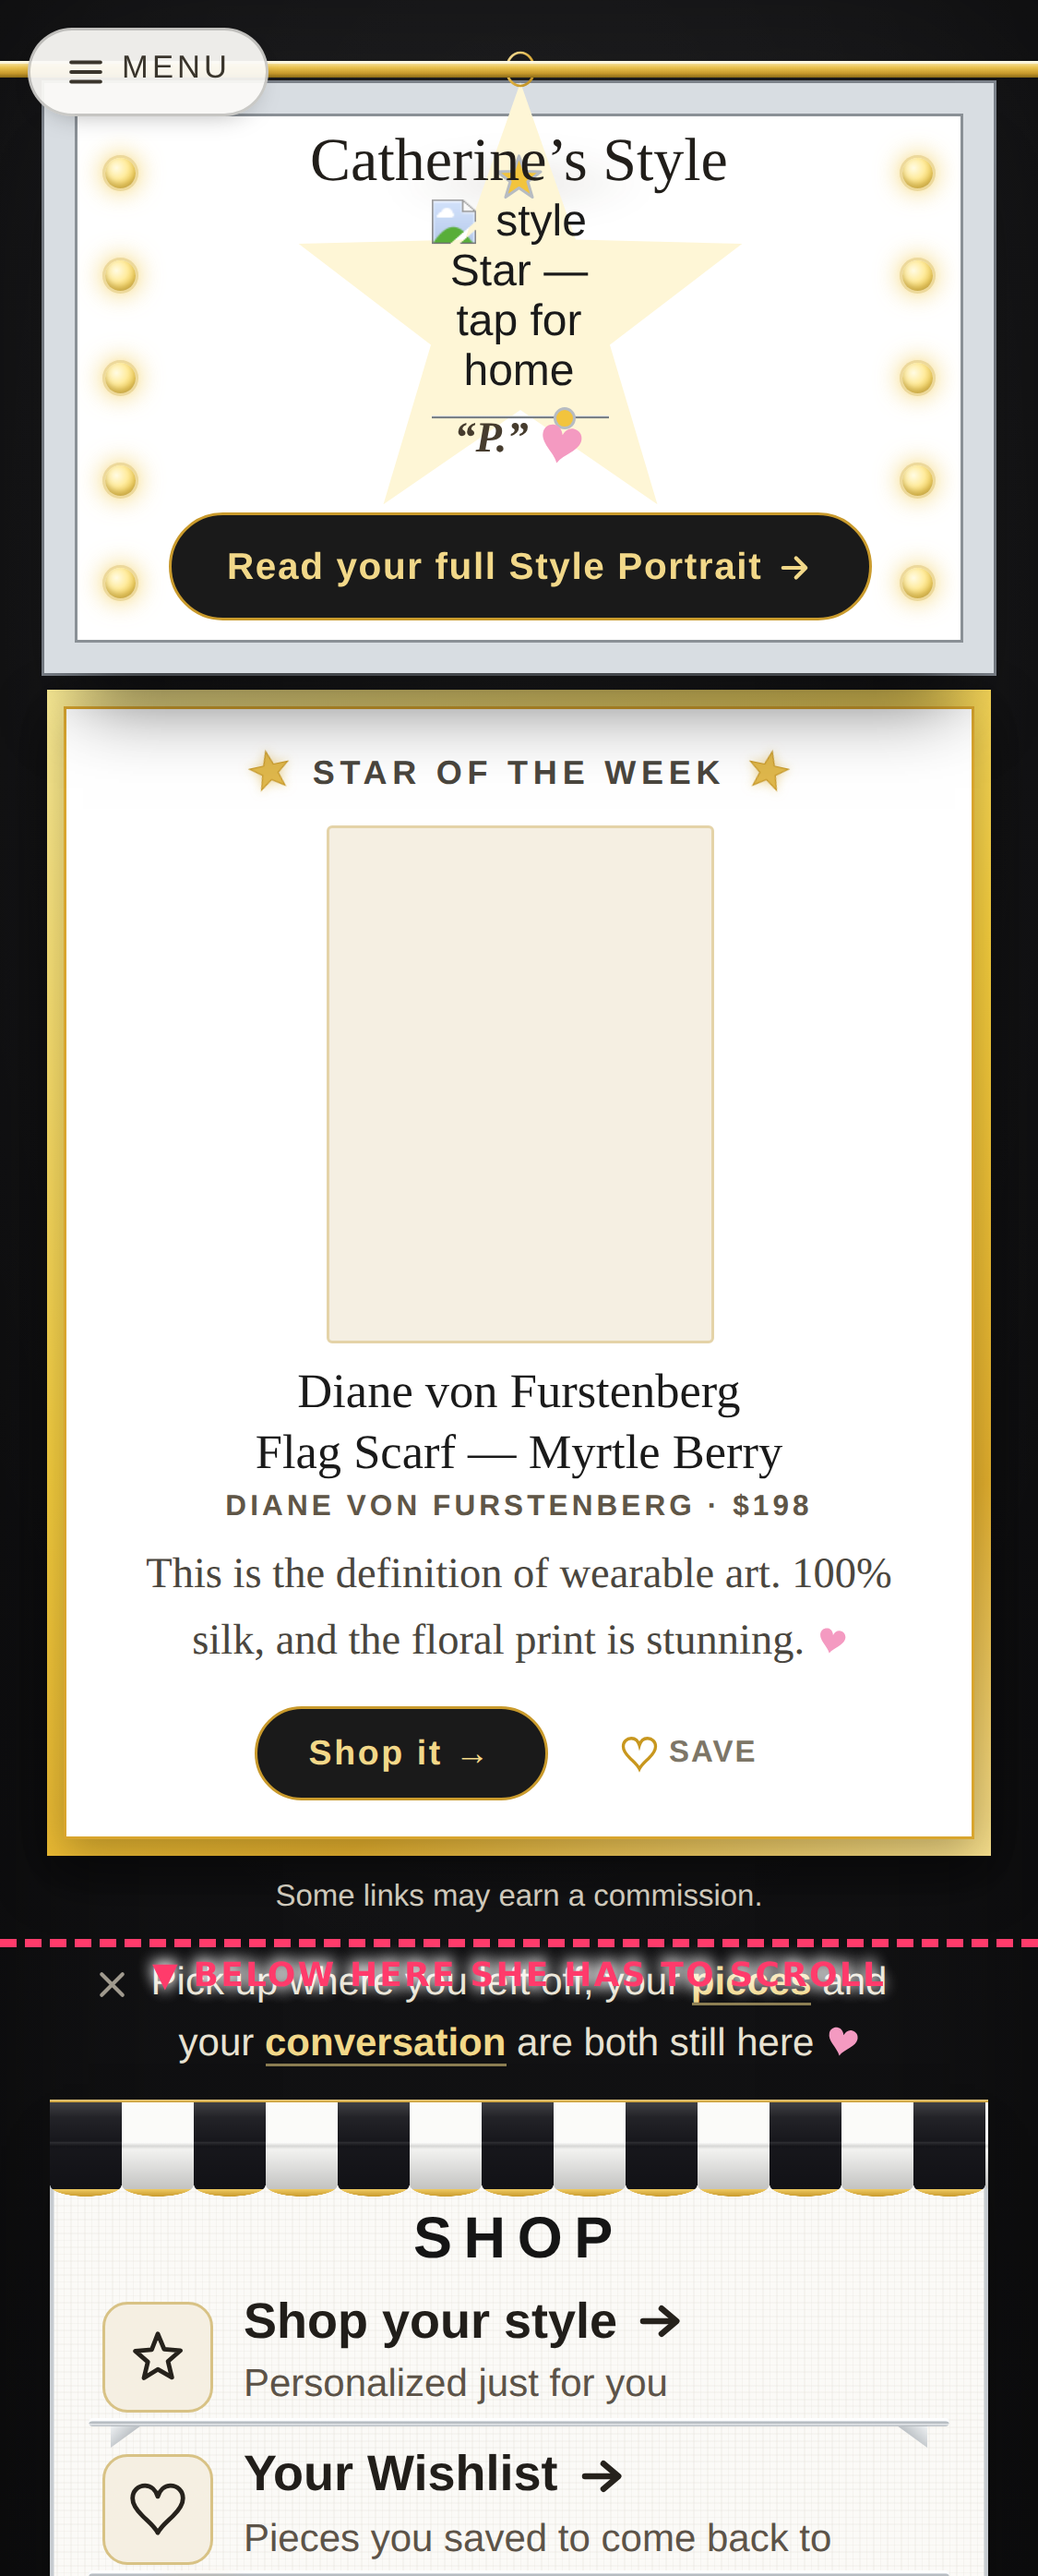
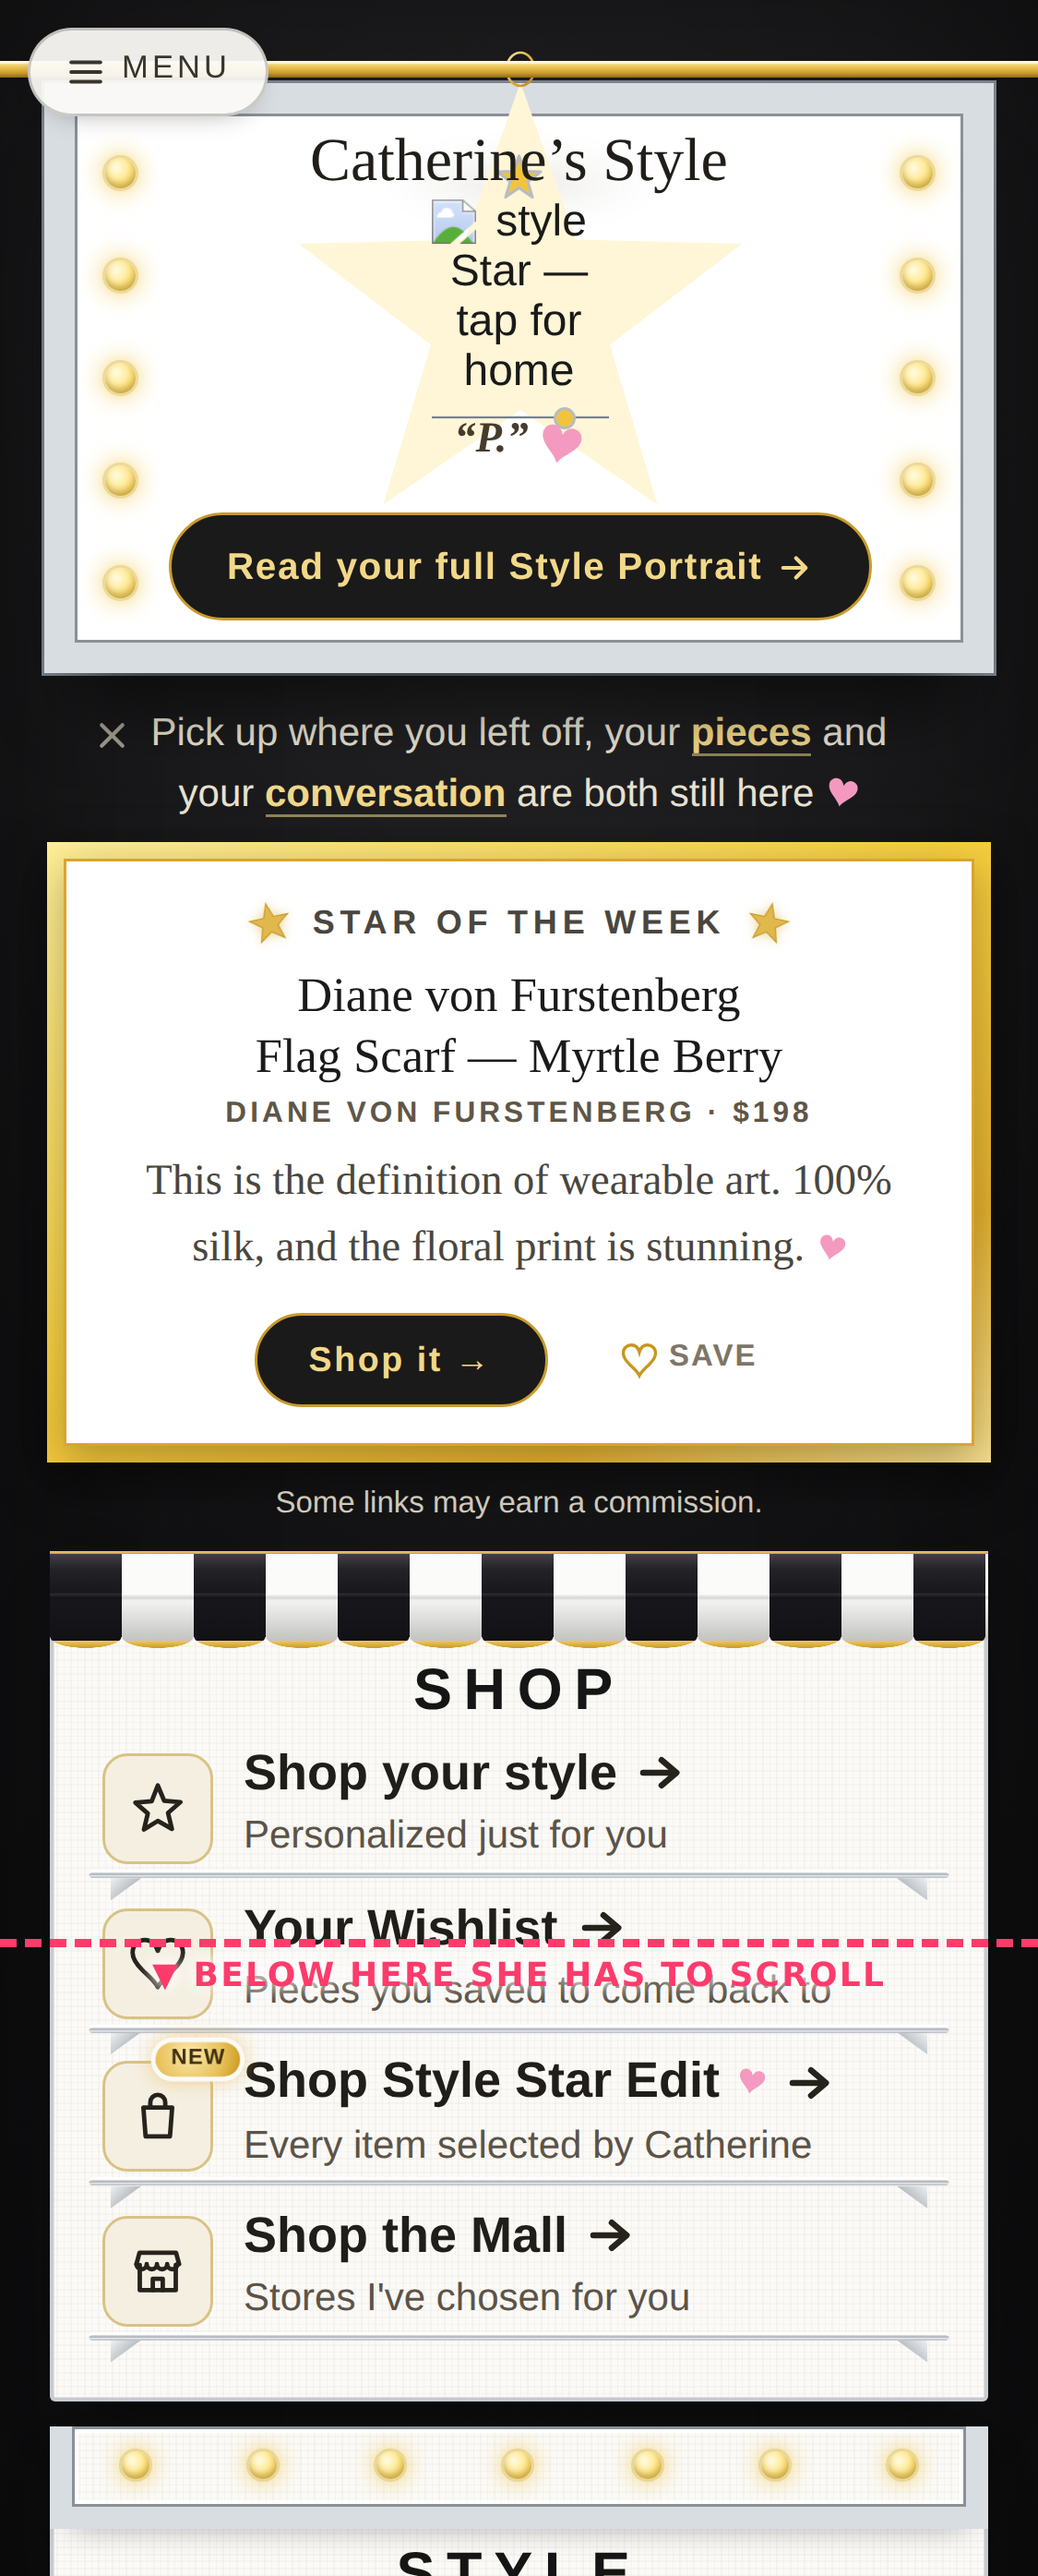
The resume leads: it sits above Star of the Week, the journey whispers do not
Her call after seeing the fold drawn on the page. The measurement is what made
it a real question: the whisper's home is y=704 against a ~700px fold, so a
woman coming back from a store LANDED WITHOUT EVER SEEING IT -- the feature was
invisible on arrival to exactly the person it was built for.

Moving it up costs 55px, which drops the Star's Shop it and Save just under the
fold on a shorter screen. Both still clear at ~780px (her own iPhone with the
URL bar hidden), and the Star's photo, name, price and her note stay above the
line either way. Her words: "I think she will scroll down or at least hit the
menu button so I really like the whisper up higher."

ONLY the resume moves, and that is what makes the trade cheap: a resume is
time-critical, a "next step" nudge is not, so the fold cost lands only on the
woman who actually has something to come back to. A first-timer or a browser has
nothing to resume, never sees this, and gets the Star exactly as it was.

THE ELEMENT IS MOVED, NEVER DUPLICATED. A second slot would mean a second id, a
second copy of every .wbn-* rule and two places to keep in step. One element,
one home per state, restored to its original position for every other whisper.

resumetest 38/38 (was 31): the resume above the Star and on the first screen,
a journey whisper back below it at its original y=704, the move working in both
directions rather than sticking, and exactly one whisper element in the DOM.
[…]

diff --git a/scratchpad/resumetest.js b/scratchpad/resumetest.js
@@ -163,5 +163,35 @@ console.log('\n4. It never lies, and it never nags');
   ok('no JS errors',errs.length===0,errs.join('|'));
   await ctx.close();
 }
+console.log('\n5. Where it sits: the resume leads, the journey whispers do not');
+{
+  const {ctx,pg,errs}=await open({chat:true,seenAll:true});
+  const where=()=>pg.evaluate(()=>{
+    const st=document.getElementById('wbStar'),n=document.getElementById('wbNext');
+    return {key:_wbNextCur, above:!!(st&&n&&(n.compareDocumentPosition(st)&Node.DOCUMENT_POSITION_FOLLOWING)),
+      top:Math.round(n.getBoundingClientRect().top+window.scrollY)};});
+  let w=await where();
+  ok('the RESUME sits above Star of the Week',w.key==='resume'&&w.above,w.key+' top '+w.top);
+  ok('...and it is on her first screen now, not below a 700px fold',w.top<700,'y='+w.top);
+  // now take the resume away: a journey whisper must go back below the Star
+  await pg.evaluate(()=>{localStorage.removeItem('ss_chat');localStorage.removeItem('ss_chat_t');
+    localStorage.removeItem('ss_shoppicks');
+    ['ss_seen_wardrobe','ss_seen_shopstyle','ss_seen_wishlist','ss_trending_seen'].forEach(k=>localStorage.removeItem(k));
+    updateWbScreen&&updateWbScreen();});
+  await pg.waitForTimeout(300);
+  w=await where();
+  ok('a JOURNEY whisper returns to its home below the Star',w.key!=='resume'&&!w.above,w.key);
+  ok('so a woman with nothing to resume gets the Star exactly as it was',w.top>=700,'y='+w.top);
+  // and back again, to prove it moves both ways rather than sticking
+  await pg.evaluate(()=>{localStorage.setItem('ss_chat',JSON.stringify([{role:'user',content:'hi'}]));
+    localStorage.setItem('ss_chat_t',String(Date.now()));updateWbScreen&&updateWbScreen();});
+  await pg.waitForTimeout(300);
+  w=await where();
+  ok('and it moves back up when there is something to resume again',w.key==='resume'&&w.above);
+  ok('exactly one whisper element exists -- moved, never duplicated',
+     await pg.evaluate(()=>document.querySelectorAll('#s-wb [id="wbNext"], #s-wb .wbn-t').length)===2);
+  ok('no JS errors',errs.length===0,errs.join('|'));
+  await ctx.close();
+}
 console.log(`\nall ${checks} checks run, ${fails} failures`);
 await b.close();srv.close();process.exit(fails?1:0);

diff --git a/index.html b/index.html
@@ -7087,7 +7087,33 @@ function _syncWbNext(){
   _wbNextCur=pick?pick.k:null;
   // ⚠ h may be a FUNCTION now (the resume has three states); the six journey
   // whispers are still plain strings and stay that way.
-  if(pick){document.getElementById('wbNextTxt').innerHTML=(typeof pick.h==='function')?pick.h():pick.h;el.classList.add('on');}
+  if(pick){
+    /* ⭐ HER CALL 2026-08-22: THE RESUME SITS ABOVE STAR OF THE WEEK, the journey
+       whispers stay below it. Measured first, because the Star's fold fit was
+       hard-won: the whisper's home is y=704 against a ~700px fold, so a woman
+       coming back from a store LANDED WITHOUT EVER SEEING IT. Moving it up costs
+       55px, which drops the Star's Shop it and Save just under the fold on a
+       shorter screen (both still clear at ~780px, e.g. her own iPhone with the
+       URL bar hidden). The Star's photo, name, price and her note stay above the
+       line either way.
+       ▶ ONLY the resume moves, and that is what makes the trade cheap: a resume
+       is time-critical, a "next step" nudge is not, so the cost lands only on
+       the woman who actually has something to come back to. A first-timer or a
+       browser has nothing to resume, never sees this, and gets the Star exactly
+       as it was. Her words: "I think she will scroll down or at least hit the
+       menu button so I really like the whisper up higher."
+       ⚠ THE ELEMENT IS MOVED, NEVER DUPLICATED. A second slot would mean a
+       second id, a second copy of every .wbn-* rule and two places to keep in
+       step -- the drift this file keeps paying for. One element, one home per
+       state, restored to its original position for every other whisper. */
+    var star=document.getElementById('wbStar');
+    if(star&&star.parentNode){
+      if(pick.k==='resume'){if(el.nextSibling!==star)star.parentNode.insertBefore(el,star);}
+      else if(star.nextSibling!==el)star.parentNode.insertBefore(el,star.nextSibling);
+    }
+    document.getElementById('wbNextTxt').innerHTML=(typeof pick.h==='function')?pick.h():pick.h;
+    el.classList.add('on');
+  }
   else el.classList.remove('on');
 }
 function wbNextGo(){
